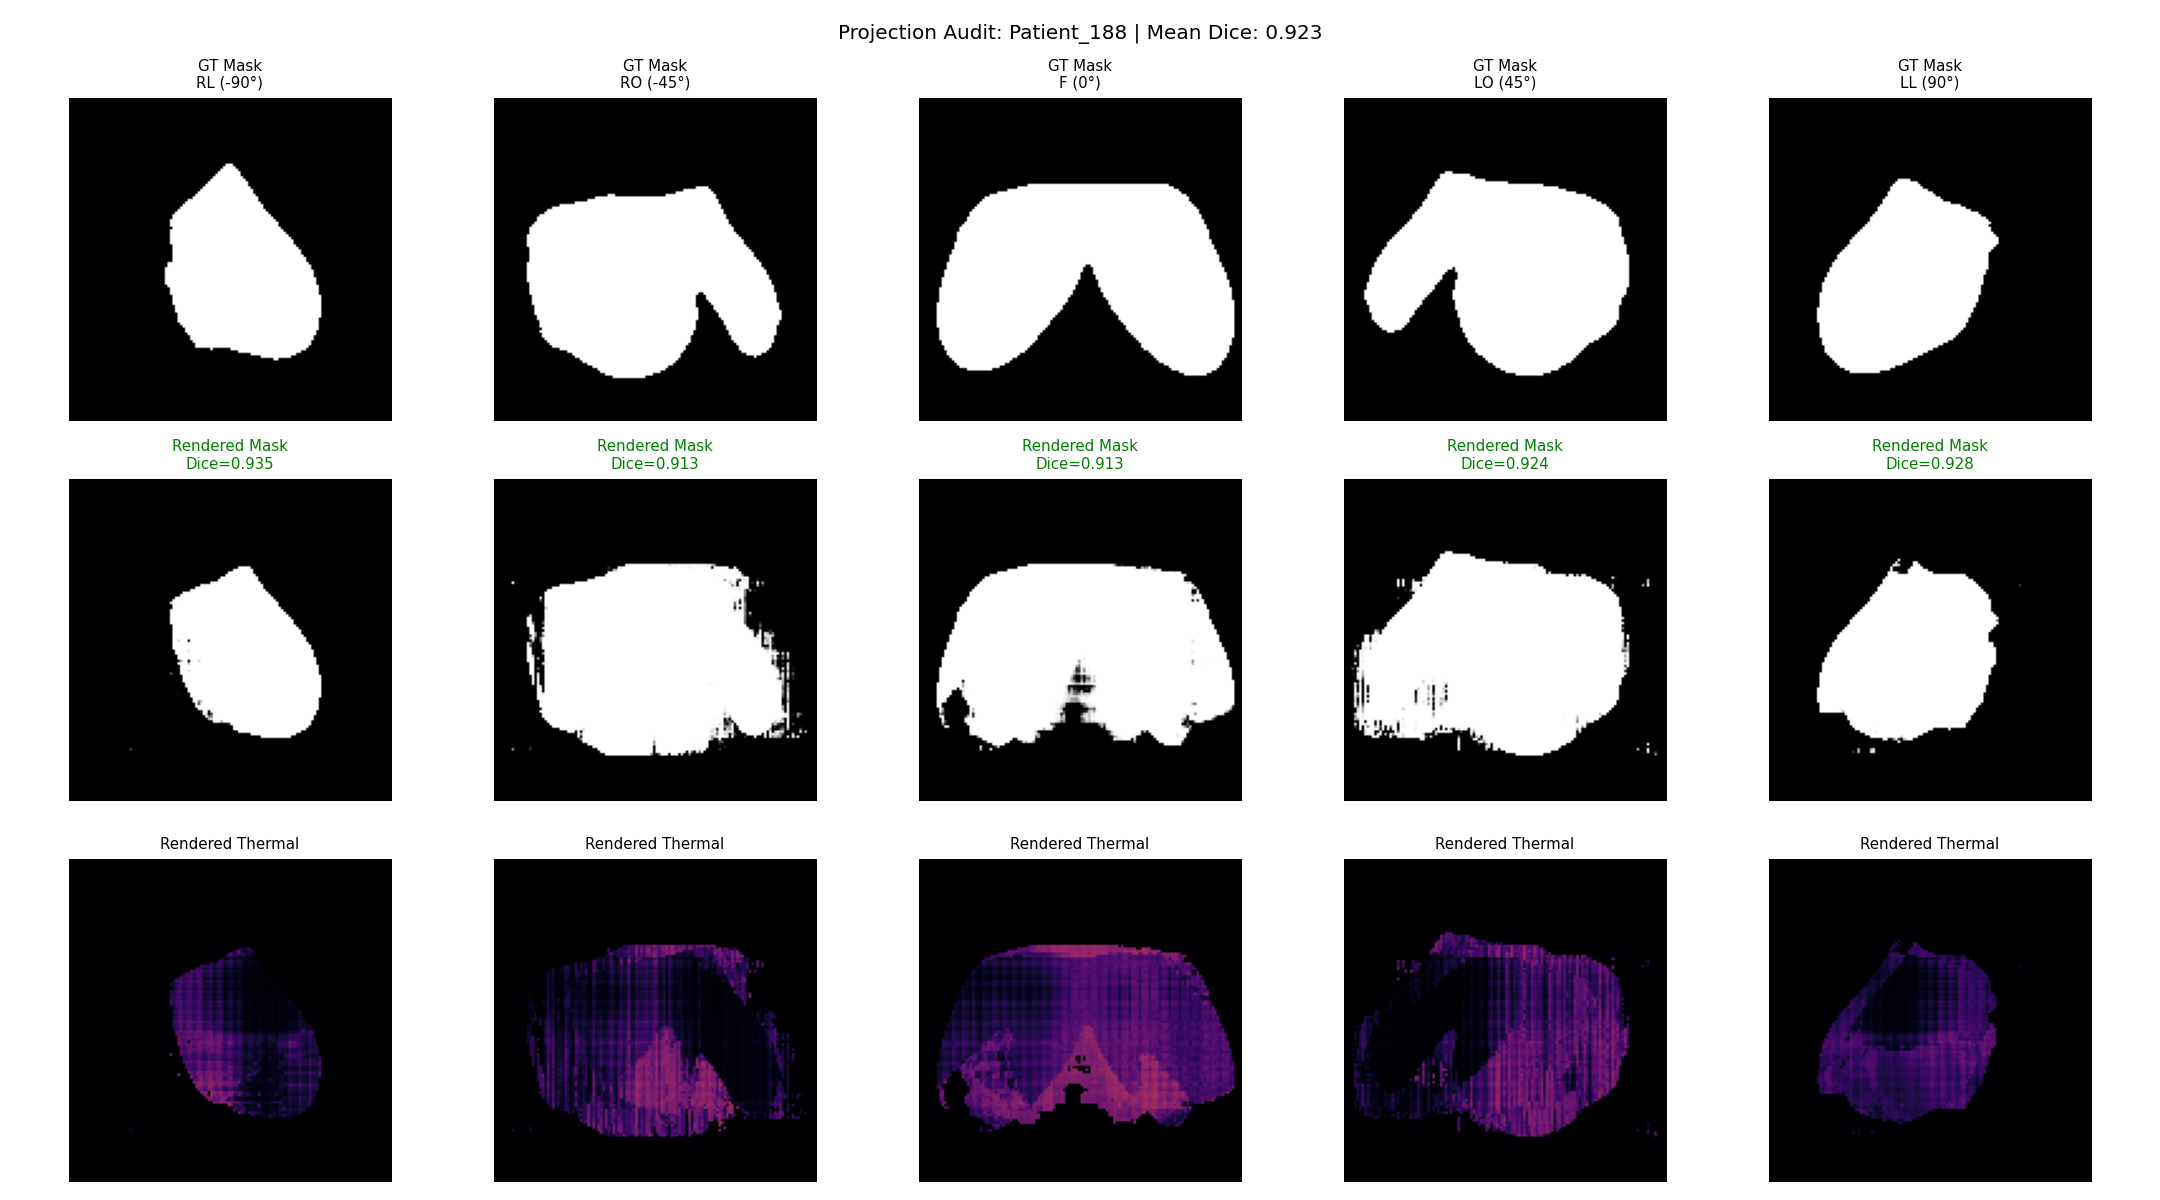
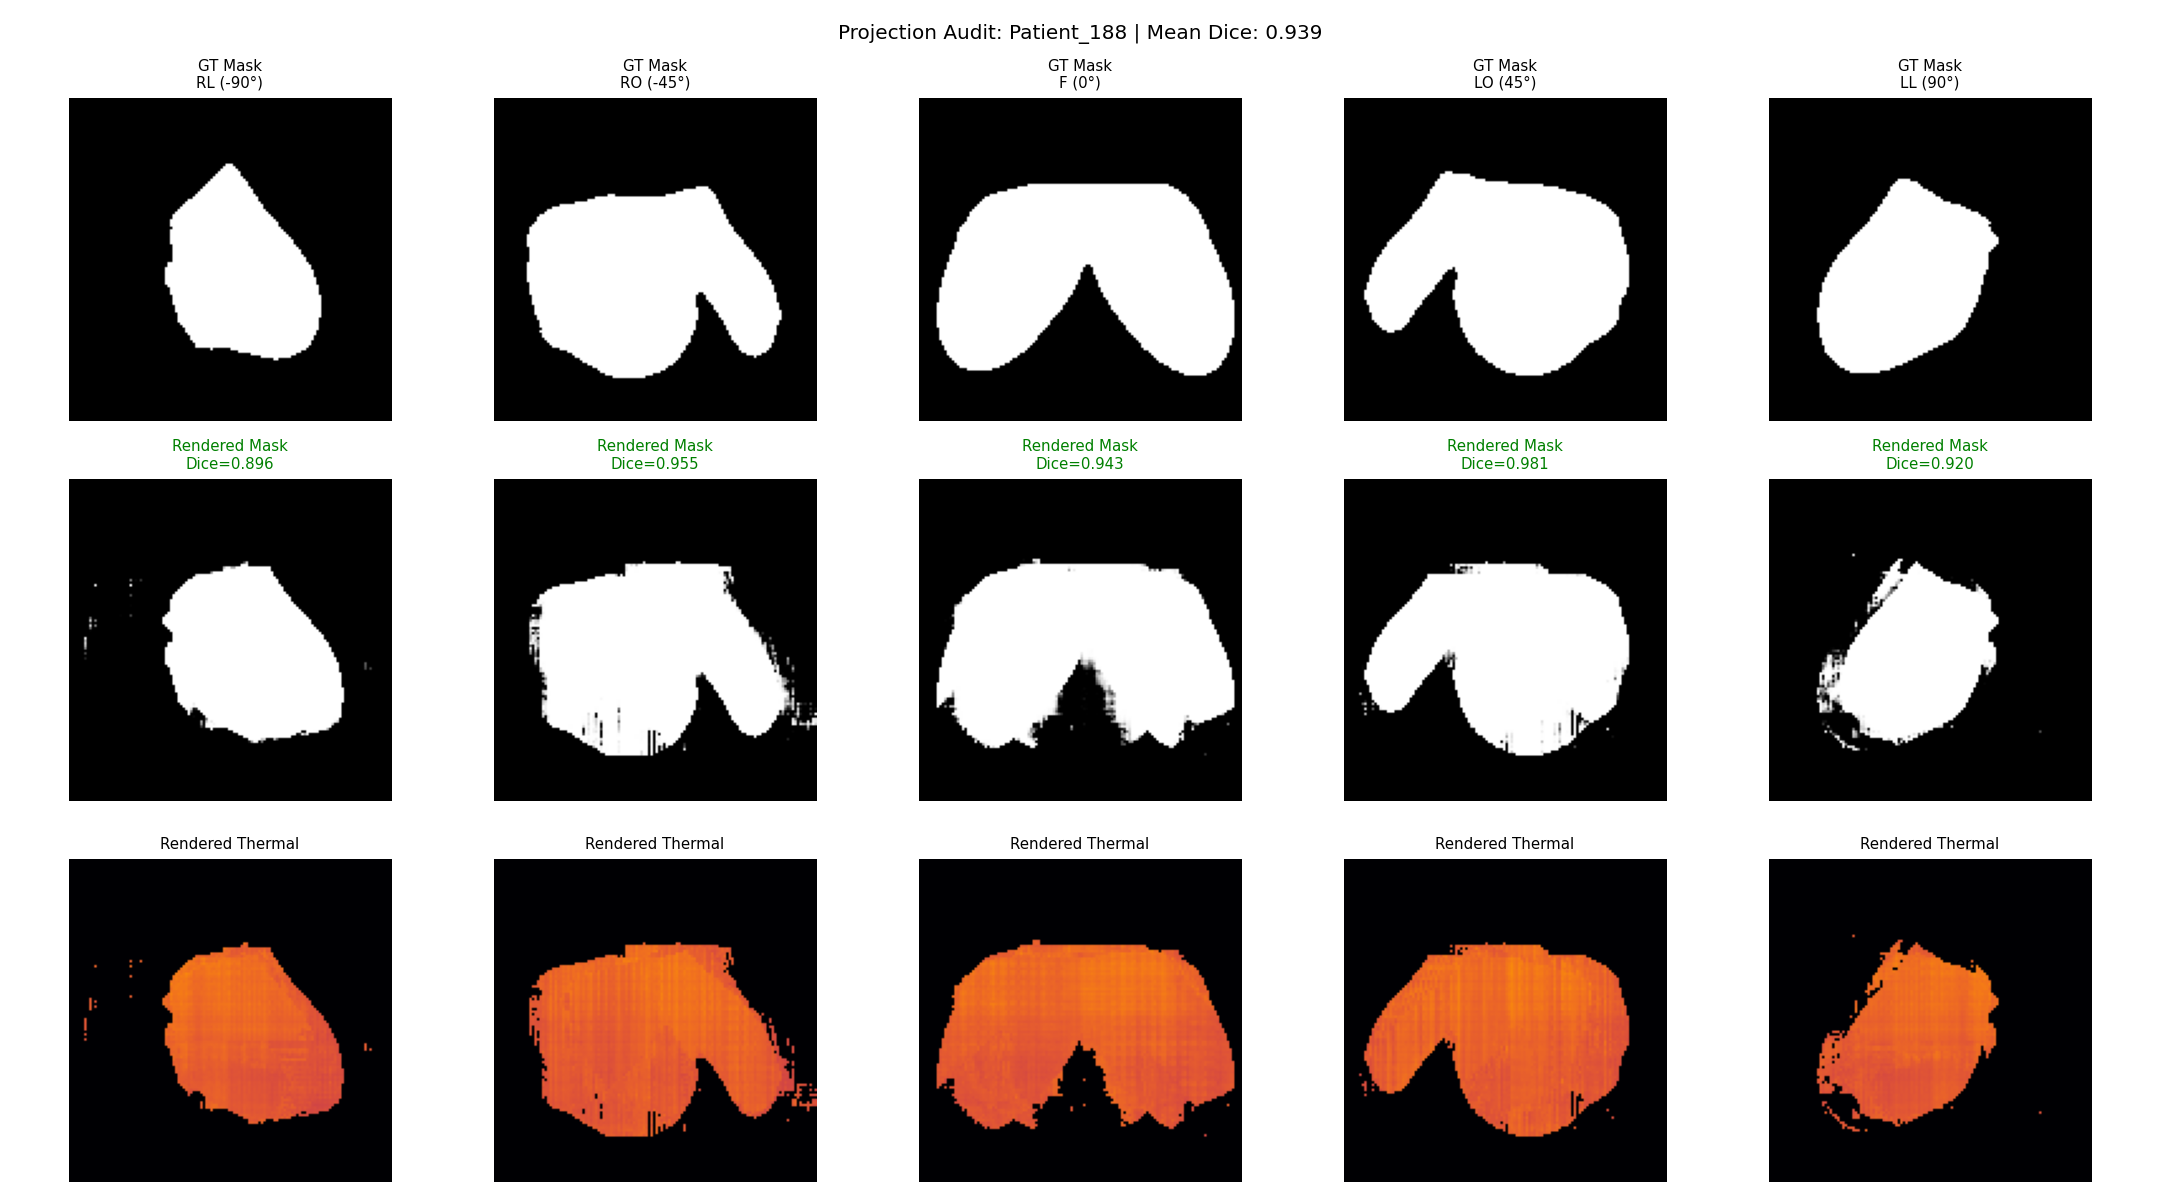
new 1.7 with thermal loss disabled

diff --git a/TherMAM-NeRF/thermamnerf_v1.7.py b/TherMAM-NeRF/thermamnerf_v1.7.py
@@ -1,7 +1,7 @@
 #!/usr/bin/env python3
 """
-Auto-converted from thermamnerf_v1.6.ipynb
-Usage: run under tmux or background: `python ThermMAM-NeRF/thermamnerf_v1.6.py`
+Auto-converted from thermamnerf_v1.6.ipynb (Updated to v1.7)
+Usage: run under tmux or background: `python ThermMAM-NeRF/thermamnerf_v1.7.py`
 """
 
 import os
@@ -39,7 +39,7 @@ print(f'Using devices: {DEVICE0}, {DEVICE1}')
 # ── Paths ────────────────────────────────────────────────────────────────────
 TIFF_DIR         = '../data/organized_by_patient'
 UNET_DIR         = '../data/organized_by_patient_unet'
-OUTPUT_DIR       = './thermamnerf_outputs'
+OUTPUT_DIR       = './thermamnerf_outputs1.7'
 os.makedirs(OUTPUT_DIR, exist_ok=True)
 
 # ── Hyperparameters ──────────────────────────────────────────────────────────
@@ -66,8 +66,8 @@ CFG = {
     'n_epochs'        : 250,
     'lr'              : 5e-4,
     'lambda_dice'     : 1.0,
-    'lambda_bg'       : 1.0,
-    'lambda_thermal'  : 0.0,
+    'lambda_bg'       : 5.0,    # INCREASED from 1.0 to aggressively penalize empty space floaters
+    'lambda_thermal'  : 0.0,    # ZEROED to focus 100% MLP capacity on shape
     'lambda_tv'       : 0.005,
     'n_rays'          : 4096,
 
@@ -590,17 +590,17 @@ for epoch in tqdm(range(START_EPOCH, CFG['n_epochs'] + 1), desc='Training Epochs
     encoder.train()
     mlp.train()
     mlp_1.train()
+    
     alpha = get_alpha(epoch, CFG['freq_warmup_epochs'], CFG['pos_enc_L'])
     cfg_step = dict(CFG)
-    cfg_step['lambda_tv'] = CFG['lambda_tv'] * max(0.1, math.exp(-0.015 * epoch))
-    if epoch <= 50:
-        cfg_step['lambda_thermal'] = 0.0
-    else:
-        cfg_step['lambda_thermal'] = 0.01
-        
-    # --- THIS HAS BEEN CORRECTED ---
+    
+    # 1. STOP TV LOSS FROM DROPPING TOO LOW (Decay clipped at 0.4x instead of 0.1x)
+    cfg_step['lambda_tv'] = CFG['lambda_tv'] * max(0.4, math.exp(-0.015 * epoch))
+    
+    # 2. TURN OFF THERMAL LOSS COMPLETELY
+    cfg_step['lambda_thermal'] = 0.0
+    
     cfg_step['density_scale'] = 10.0
-    # -------------------------------
     
     epoch_loss = []
     for batch in tqdm(train_dl, desc=f'Epoch {epoch}/{CFG["n_epochs"]}', leave=False):
@@ -638,7 +638,7 @@ for epoch in tqdm(range(START_EPOCH, CFG['n_epochs'] + 1), desc='Training Epochs
               f'Val Dice Loss: {vd:.4f} (Dice: {1-vd:.4f}) | ' \
               f'Val Thermal MSE: {vt:.4f} | ' \
               f'α: {alpha:.1f} | ' \
-              f'DENSITY_SCALE_TEST: {cfg_step["density_scale"]:.1f} | ' \
+              f'ds: {cfg_step["density_scale"]:.1f} | ' \
               f'λ_tv: {cfg_step["lambda_tv"]:.4f}')
 
 
@@ -735,6 +735,36 @@ def export_ply(verts, faces, colors_rgb, filepath, temperatures=None):
             f.write(f'3 {face[0]} {face[1]} {face[2]}\n')
     print(f'Saved PLY: {filepath}')
 
+
+# ── Training Curves ──────────────────────────────────────────────────────────
+try:
+    fig, axes = plt.subplots(1, 3, figsize=(15, 4))
+    
+    # Train Loss
+    axes[0].plot(history['train_loss'], color='blue', label='Train Loss')
+    axes[0].set_title('Train Loss (Total)')
+    axes[0].set_xlabel('Epoch')
+    axes[0].grid(True)
+    
+    # Val Dice Loss
+    axes[1].plot(history['val_dice'], color='green', marker='o')
+    axes[1].set_title('Val Dice Loss')
+    axes[1].set_xlabel('Evaluation Step')
+    axes[1].grid(True)
+    
+    # Val Thermal MSE
+    axes[2].plot(history['val_thermal'], color='red', marker='o')
+    axes[2].set_title('Val Thermal MSE')
+    axes[2].set_xlabel('Evaluation Step')
+    axes[2].grid(True)
+    
+    plt.suptitle('TherMAM-NeRF v1.7 Training Progress')
+    plt.tight_layout()
+    plt.savefig(os.path.join(OUTPUT_DIR, 'training_curves.png'), dpi=120)
+    plt.close(fig)
+    print(f"Saved training curves to {os.path.join(OUTPUT_DIR, 'training_curves.png')}")
+except Exception as e:
+    print('Training curves plot skipped:', e)
 
 if __name__ == '__main__':
     print('Script executed directly. Training has already run in top-level scope.')
